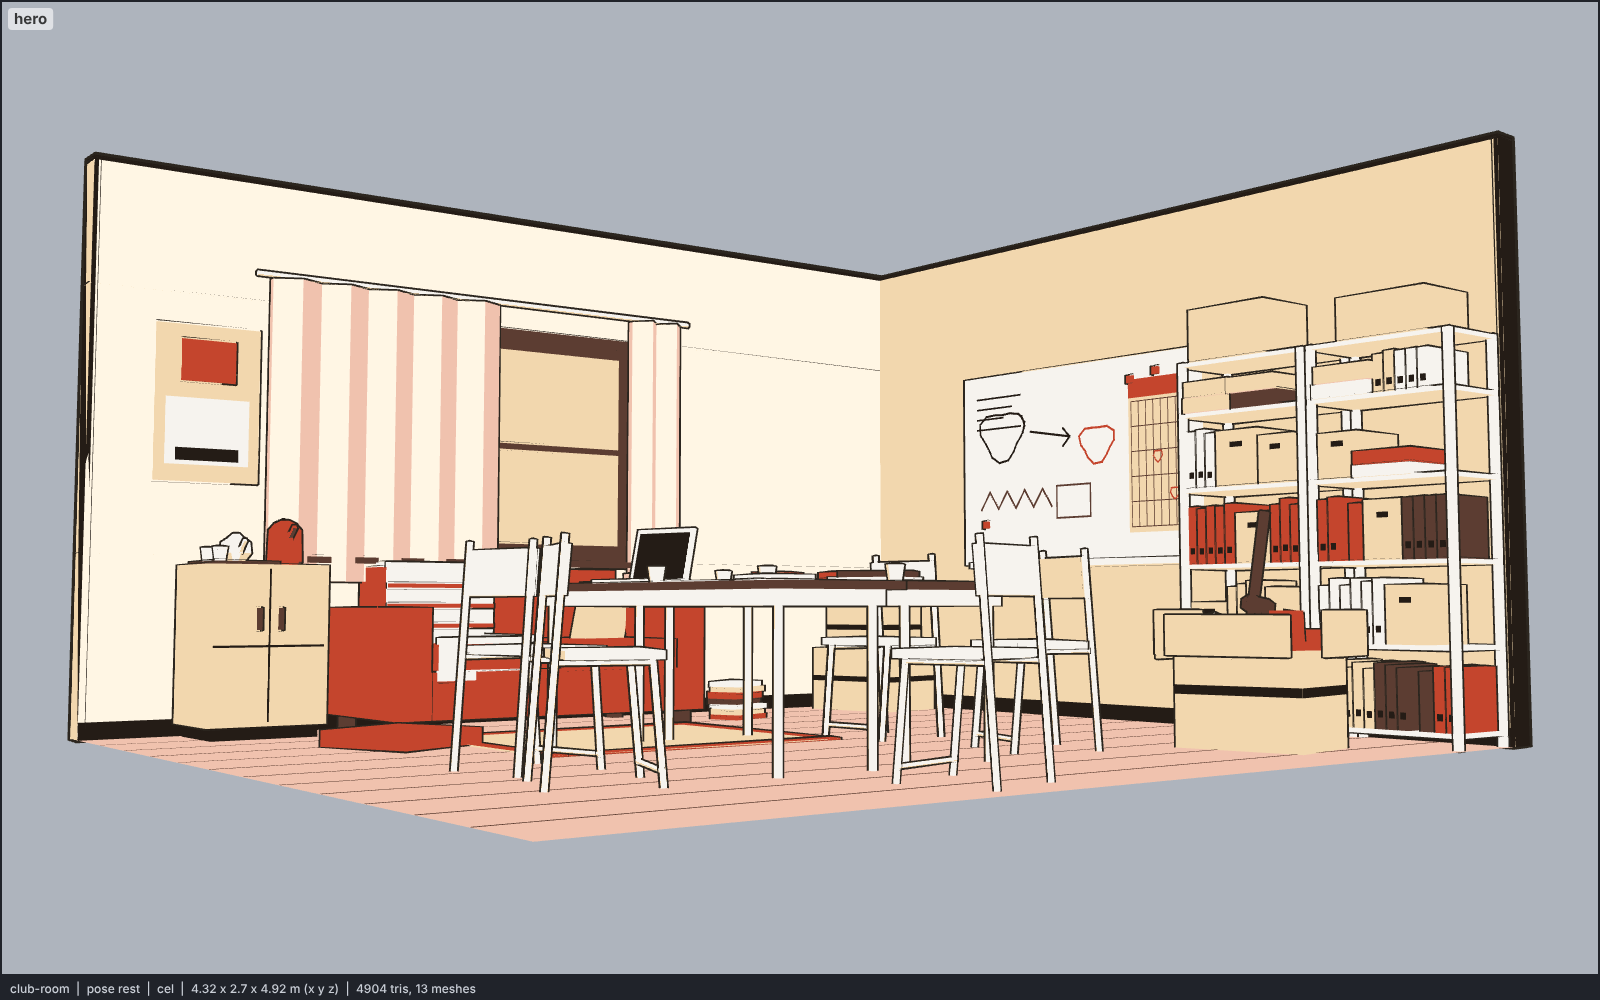
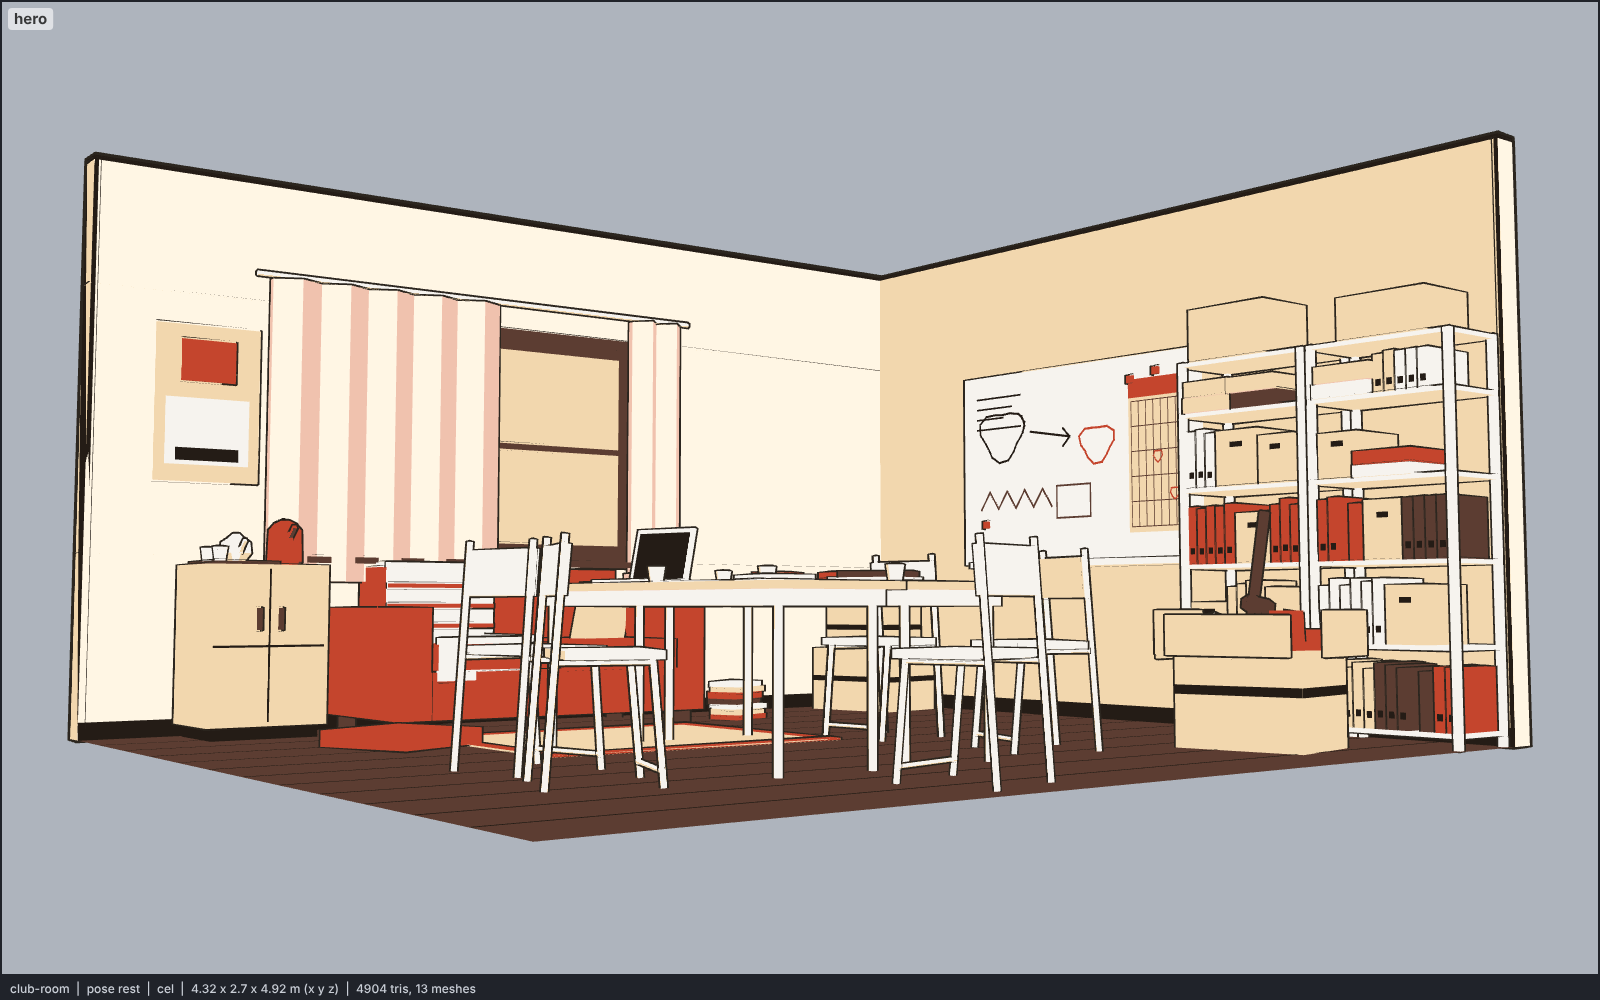
models: club-room, dark wooden floorboards
The floor moves from salmon skin to the noon wood pair (iris / skin) with
hair plank seams, so it reads as an old wooden floor rather than pink carpet.
The table tops become tan so they stay distinct from it. Same mesh count.

Claude-Session: https://claude.ai/code/session_01RarBCdt4E1fNHHaUKaW5GL

Changed region(s): [[0.0625, 0.682, 0.9375, 0.837], [0.9375, 0.124, 0.9688, 0.744], [0.3438, 0.558, 0.625, 0.589]]

diff --git a/models/club-room.js b/models/club-room.js
@@ -20,7 +20,7 @@
 //             and stacks of board games, every spine blank, a box shoved on top of each; a cardboard box on the floor
 //             overflowing with props (a wooden sword, a top hat, a folded cloth, a ball); two boxes stacked in the far
 //             corner and a stack of comics by the sofa end.
-//   CENTRE    two long tables pushed together (dark tops, a steel apron, tube legs), five folding chairs round them,
+//   CENTRE    two long tables pushed together (pale tops, a steel apron, tube legs), five folding chairs round them,
 //             pulled out and turned (fixed numbers, no randomness); on the tables an open laptop (blank dark screen),
 //             two closed laptops, four teacups, three snack bags, loose sheets.
 // Proportions (real size, base unit the storey H = 2.7 m = meta.height): interior 4.2 (x) by 4.8 (z); window sill
@@ -32,9 +32,10 @@
 // Ink in pixels: walls, floor edge and caps 3; wood, steel, props and cloth 2 (a room is seen small).
 // Colours (noon, the warm wood-brown script), base / shade:
 //   walls                  moon #fff6e4 / sky #f2d7ae, threshold 0.35 (the -X wall lit, the -Z wall falls to sky)
-//   floor                  skin #f0c2ae flat; plank seams, scribbles, calendar grid iris #5c3d32 flat
-//   dark wood (table tops, window frame, sill, tray, sofa legs, sword, some binders and games)  iris #5c3d32 flat
-//   tan (cardboard, cabinet, rug, file boxes, games, poster)  sky #f2d7ae / skin #f0c2ae
+//   floor                  iris #5c3d32 / skin #f0c2ae (old boards; it faces the light, so it reads iris), plank
+//                          seams hair flat; scribbles and calendar grid iris #5c3d32 flat
+//   dark wood (window frame, sill, tray, sofa legs, sword, some binders and games)  iris #5c3d32 flat
+//   tan (table tops, cardboard, cabinet, rug, file boxes, games, poster)  sky #f2d7ae / skin #f0c2ae
 //   steel (shelves, chairs, table legs, laptops, cups, teapot, board frame, rail, blanket)  sclera #f6f3ee / sky
 //   red (sofa, kettle, binders, games, snack bags, hat, rug border, floor cushion, magnets)  accent #c4452d / iris
 //   paper (board face, sheets)  sclera #f6f3ee flat;  glass and calendar sheet sky #f2d7ae flat (the calendar is
@@ -48,7 +49,7 @@ export const meta = {
   script: "noon",
   colors: {
     wall: "#fff6e4", wallShade: "#f2d7ae",
-    floor: "#f0c2ae", seam: "#5c3d32",
+    floor: "#5c3d32", floorShade: "#f0c2ae", seam: "#5c3d32",
     wood: "#5c3d32",
     tan: "#f2d7ae", tanShade: "#f0c2ae",
     steel: "#f6f3ee", steelShade: "#f2d7ae",
@@ -185,7 +186,7 @@ export function build(THREE, kit, colors = meta.colors, opts = {}) {
   quad("floor", [-W, 0, -L], [W, 0, -L], [W, 0, L], [-W, 0, L], [0, -1, 0]);
   for (let i = 1; i < 12; i++) { // plank seams running along z
     const x = -W + (i * 2 * W) / 12;
-    quad("seam", [x - 0.008, 0.0015, -L], [x + 0.008, 0.0015, -L], [x + 0.008, 0.0015, L], [x - 0.008, 0.0015, L], [x, -1, 0]);
+    quad("dark", [x - 0.008, 0.0015, -L], [x + 0.008, 0.0015, -L], [x + 0.008, 0.0015, L], [x - 0.008, 0.0015, L], [x, -1, 0]);
   }
   const wall = (x0, x1, y0, y1, z0, z1, cut) => {
     box("wall", x0, x1, y0, cut ? y1 - CAP : y1, z0, z1);
@@ -407,7 +408,7 @@ export function build(THREE, kit, colors = meta.colors, opts = {}) {
   const TX = 0.4, TZ = 0.4, TL = 1.8, TD = 0.6, TH = 0.7;
   for (const dz of [-TD / 2, TD / 2]) {
     const z = TZ + dz;
-    box("wood", TX - TL / 2, TX + TL / 2, TH - 0.03, TH, z - TD / 2 + 0.003, z + TD / 2 - 0.003);
+    box("tan", TX - TL / 2, TX + TL / 2, TH - 0.03, TH, z - TD / 2 + 0.003, z + TD / 2 - 0.003);
     box("steel", TX - TL / 2 + 0.06, TX + TL / 2 - 0.06, TH - 0.09, TH - 0.03, z - TD / 2 + 0.05, z + TD / 2 - 0.05); // apron
     for (const sx of [-1, 1]) for (const sz of [-1, 1])
       rod("steel", [TX + sx * (TL / 2 - 0.1), 0.01, z + sz * (TD / 2 - 0.08)], [TX + sx * (TL / 2 - 0.1), TH - 0.06, z + sz * (TD / 2 - 0.08)], 0.016, 6);
@@ -465,7 +466,7 @@ export function build(THREE, kit, colors = meta.colors, opts = {}) {
   // ---------- meshes: one per material signature ----------
   const MAT = {
     wall: [c.wall, c.wallShade, 0.35, 3],
-    floor: [c.floor, c.floor, 0.1, 3],
+    floor: [c.floor, c.floorShade, 0.1, 3],
     seam: [c.seam, c.seam, 0.1, 0],
     cap: [c.dark, c.dark, 0.1, 3],
     dark: [c.dark, c.dark, 0.1, 0],
